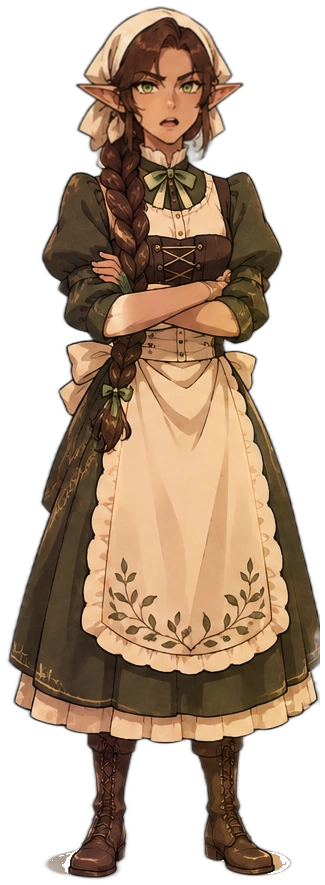
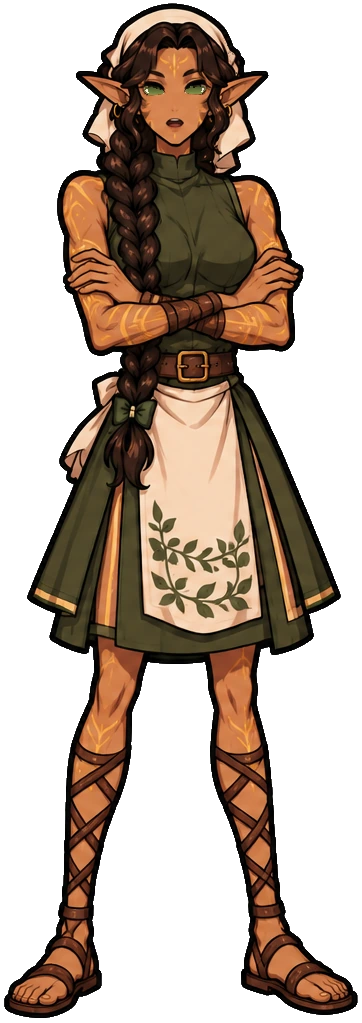
Midori no estilo novo: elfa pura, marcas douradas, olhos inteiros verdes (versao 2)
Claude-Session: https://claude.ai/code/session_01UAy89vbUTZugM6nZ8sJaNe

diff --git a/ferramentas/ficha_expressoes/verde2.py b/ferramentas/ficha_expressoes/verde2.py
@@ -1,0 +1,42 @@
+import numpy as np, cv2
+from PIL import Image
+from scipy import ndimage as nd
+CLARO=np.array([138,150,78.]); ESCURO=np.array([66,80,36.])
+OLHOS=[(70,110,130,180),(70,110,176,224)]
+def faz(f):
+    a=np.asarray(Image.open(f)).astype(np.float32)
+    for (Y0,Y1,X0,X1) in OLHOS:
+        sub=a[Y0:Y1,X0:X1,:3]; R,G,B=sub[...,0],sub[...,1],sub[...,2]
+        lum=sub@[.299,.587,.114]; sat=sub.max(2)-sub.min(2)
+        pele=(R>G+45)
+        branco=(lum>165)&(sat<90)
+        iris=(G>B+25)&(G>=R-12)&~pele
+        semente=branco|iris
+        lb,n=nd.label(semente)
+        if n==0: continue
+        ar=nd.sum(semente,lb,range(1,n+1)); keep=np.zeros(n+1,bool); keep[1:]=ar>=4
+        sem=keep[lb]
+        if sem.sum()<30: continue
+        # componente principal + vizinhos próximos
+        hull=cv2.convexHull(cv2.findNonZero(sem.astype(np.uint8))); H=np.zeros(sem.shape,np.uint8); cv2.fillConvexPoly(H,hull,1); H=H>0
+        H=nd.binary_dilation(H,iterations=1)&~pele
+        dark=lum<70
+        ys_,xs_=np.nonzero(H); cyH=(ys_.min()+ys_.max())/2
+        yy_=np.arange(H.shape[0])[:,None]*np.ones((1,H.shape[1]))
+        borda=H&~nd.binary_erosion(H,iterations=2)
+        alvo=H&~(dark&borda&(yy_<cyH))   # mantém só o contorno escuro de cima
+        alvo|=nd.binary_dilation(H,iterations=1)&branco&~pele
+        alvo|=H&dark&(G>R+5)                                 # anel escuro esverdeado da íris vira verde
+        # brilho: o maior pontinho branco puro dentro
+        br=(lum>225)&H; lbb,nb=nd.label(br)
+        if nb:
+            arb=np.array(nd.sum(br,lbb,range(1,nb+1))); ok=np.where(arb<=10)[0]
+            if len(ok): alvo&=~(lbb==(ok[np.argmax(arb[ok])]+1))
+        ys=np.nonzero(H)[0]; y0,y1=ys.min(),ys.max()+1
+        t=np.clip((np.arange(sub.shape[0])-y0)/max(1,(y1-y0)),0,1)[:,None,None]
+        cor=np.broadcast_to(ESCURO*(1-t)+CLARO*t,sub.shape)
+        m=alvo.astype(np.float32)[...,None]
+        a[Y0:Y1,X0:X1,:3]=sub*(1-m)+cor*m
+    Image.fromarray(np.clip(a,0,255).astype(np.uint8)).save(f)
+for r in range(5):
+    for c in range(2): faz(f'c_{r}_{c}.png')

diff --git a/CLAUDE.md b/CLAUDE.md
@@ -128,6 +128,6 @@ Cada ator da aba Atriz (`palco-animacao.html`) pode ter sentimentos: a personage
 - Palco: o texto é dividido em frases; `[surpresa]` ou `(surpresa)` no começo vale até o fim da frase, depois volta ao normal; `Tamaki: …` no começo da linha faz só esse ator falar (`FALA.quem`). Sem tag, o sentimento sai das palavras (se `emoAuto`). Botões de sentimento no painel Animação do ator.
 - Novel: `personagem tamaki "Tamaki" #cor ator Tamaki` liga ao ator (pisca e mexe a boca enquanto a fala aparece ou a voz toca); `tamaki [surpresa] "fala"` ou `tamaki (surpresa) "fala"` vale só nessa fala e volta ao do `mostra`. Sem ator, `[surpresa]` usa a arte `tamaki surpresa`.
 - Sentimentos prontos no repositório: `atores/indice.json` = `[{nome, pasta, nota, arquivos}]`, imagens em `atores/<ator>/` (WebP, mesma tela das poses originais, nomes `Tamaki_<sentimento>[_fala|_fala2|_pisca|_fala_pisca].webp`). Atriz › 😮 Sentimentos › 📥 Sentimentos prontos pergunta qual pronto (o do ator aberto vem marcado), troca para o ator com esse nome ou cria o ator se ele não existe, e instala. Arquivos sem sentimento no nome (`Kaoro.webp`, `Kaoro_fala.webp`…) vão para as poses normais (aba Imagens). Além disso, a Central (`atoresProntos()` no index.html) cria sozinha, ao abrir, todo ator do índice que ainda não existe no aparelho (uma vez só por nome: `central-atores-prontos`; apagou, não volta) e recarrega o Palco Animação. Atores prontos do Capítulo 1 (2026-11-20, folhas geradas no GPT pelo Tama): Tora, Goro, Reika, Yoru, Kiyoshi, Midori, Gen, Yuzu, Tetsuo, Banji, Hiyori, Shun, Kenichi, Momo, Kaname, Kaede, Haru e "Tamaki criança" (arquivos `Tamaki*.webp` em `atores/tamaki-crianca/`), só poses normais, WebP q92; o campo `tamanho` do índice vira o `size` do ator (crianças menores). Kaoro: só as 5 poses normais (fundo tirado com isnet-anime; todas usam o corpo da Parada e só a cabeça muda, alinhada pelo rosto, para não tremer na troca). Tamaki: feliz, animada, surpresa, convencida, emburrada, pensativa (feitas de 6 desenhos do Tama; olhos fechados = traço do olho fechado da feliz; bocas trocadas entre os desenhos dela).
-- Atores no estilo novo (bíblia de personagens, doc claude.ai/artifact/UmTf5SAu5teoMsUEmK7AdF): o Tama gera no GPT uma "ficha de expressões" = corpo inteiro com ROSTO LISO à esquerda e, à direita, grade 5 linhas × 3 colunas só de cabeças (linhas: normal, feliz, bravo, triste, surpreso; colunas: boca fechada, falando, olhos fechados). O Claude recorta (isnet-anime), acha escala/posição de cada cabeça no corpo (matchTemplate), alinha pelo nariz e cola só a pele do rosto (máscara do rosto liso do corpo), assim o cabelo e o corpo são sempre os mesmos. Vira poses normais + sentimentos (`_fala2` e `_fala_pisca` = cópia do `_fala`; sem `_pisca` quando a coluna 3 veio de olho aberto). Kaoro (versao 4), Haru, Kaede, Tamaki criança, Kenichi, Momo, Kaname, Shun, Hiyori, Banji, Tetsuo, Yuzu, Gen, Yoru e Kiyoshi (versao 2), Tetsuo e Yuzu (versao 3) já estão assim. Galo/galinha (versao 3): o Tama pediu o corpo SEM rosto, SEM bico e SEM barbelas, com as penas pintadas de forma orgânica (nada de oval chapado), e o Tetsuo com expressões maduras (olhos estreitos, rugas); o bico fala abrindo a parte de baixo. Montagem: `/home/claude/scripts`-style `g3x.py` (encaixa a silhueta da cabeça na do corpo, escala x/y) ou matchTemplate pelo quepe (Tetsuo .885), `b5.py CORTE FUNDO TOPO` cola a cabeça inteira entre as linhas y e alinha pelo alto, `bpisca.py`, `exporta.py`. A Yuzu brava veio com um risco vermelho (cicatriz do Tetsuo) na testa: tirado pegando só o vermelho fino (abertura com disco de raio 8 separa da crista). Yoru: r5e da Hiyori com escala .72 pela altura do rosto (rosto liso do corpo ÷ rosto da cabeça); o matchTemplate pelo cabelo dava .835, grande demais. Gen (coruja, `g3.py`/`g5.py`): as cabeças da grade vieram mais achatadas que a do corpo, então a escala é separada em x e y (.92 × 1.02), achada encaixando a silhueta da cabeça na do corpo; cola a cabeça inteira (erodida 5 px) e alinha pelas penas do alto, e a coluna 3 pelos óculos. Yuzu: mesmo caminho do Tetsuo (escala 1.0, alinhada pela crista, faixa y 72–226); o fundo_branco furou o branco dos olhos do corpo, então o alfa do resultado = máximo(corpo, cabeça colada). Tetsuo (`t3.py`/`t5.py`/`tp.py`): corpo veio com rosto desenhado; escala pelo matchTemplate de olhos+bico (.745), todas as cabeças alinhadas pelo quepe, cola a cabeça erodida 6 px entre y 96 e 192 (abaixo da aba), e o bico do corpo é apagado antes (preenchido com a cor das penas) para não sobrar bico duplo quando a cabeça tem o bico mais alto. `fundo_branco.py`: na grade só fura buracos brancos ≥ 600 px (antes furava o branco do olho). Hiyori (óculos, franja reta): corpo sem óculos, óculos só nas cabeças; alinhar pela franja (TOPO), a máscara do corpo vira contorno convexo e a faixa dos olhos entra inteira (senão a sombra da franja corta um olho). No r5e, o contorno convexo do rosto da cabeça é ERODIDO 4 px (não dilatado), senão o queixo da cabeça aparece como uma segunda linha de queixo. Cabelo branco (Kaname): limpa_borda com `peel=1, maxman=20` para não comer mechas e pontas de orelha. Scripts de referência em `ferramentas/ficha_expressoes/` (r1 fundo, r2 corta cabeças e corpo, r3 escala/posição, r4 máscara do rosto, r5b alinha pelo nariz/boca, piscar; as coordenadas mudam por personagem). Quando o isnet-anime apaga cabeças da grade, usar `fundo_branco.py` (tira o branco ligado à borda e buracos brancos fechados; no corpo qualquer buraco branco). A escala da cabeça sai melhor pela largura do rosto (rosto liso do corpo ÷ rosto da cabeça) do que pelo matchTemplate quando o cabelo é cacheado (Kaede: .78, posição pelo topo do rosto). `r5e.py` (Tamaki criança): cola só dentro do contorno convexo da pele do rosto da própria cabeça, assim o queixo da cabeça nunca aparece dentro do rosto do corpo; coluna 3 alinhada pelo nariz, e se falhar usa o ajuste da coluna 1. Kenichi (galo, `k3.py`/`k5.py`): o GPT desenhou o rosto no corpo (não veio liso), então a escala sai do matchTemplate de sobrancelhas+olhos+bico (1.28), cola o contorno convexo do rosto de penas do corpo e da cabeça, só longe da borda da cabeça (erosão de 7 px, para não trazer o contorno do pescoço), e alinha todas pela crista (o bico aberto desce e engana o alinhamento pelo bico). Piscar com os olhos fechados da própria linha (todas as colunas 3 vieram fechadas); no surpreso, pele lisa + só o traço do olho fechado, mantendo as sobrancelhas. Elfos puros (e filhos de elfo puro, como Momo e Aoi): corpo alongado (pescoço, braços, pernas e dedos compridos), orelhas muito compridas quase na horizontal, listras de tigre num tom mais escuro que a pele (testa, têmporas, embaixo dos olhos, pescoço, mãos, canelas), quase sem sobrancelha, rosto comprido e queixo fino, e o OLHO INTEIRO DE UMA COR SÓ (sem branco, sem íris/pupila; a cor varia por personagem); as cores de pele e cabelo seguem a ficha de cada um, puxando para tons claros. Referência: imagem do Tama de 2026-11-21 (corpo de ~9 cabeças, pescoço do tamanho da cabeça, braços até o meio da coxa, pernas mais da metade da altura, canelas finas e longas, mãos grandes). Família Utagawa (Midori, Reika, Raika, Momo, Aoi; o Kiyoshi não, é elfo comum): marcas TRIBAIS DOURADAS (padrão da família, pedido do Tama em 2026-11-22) no lugar das listras de tigre; roupas que mostram braços, pescoço e canelas para a anatomia aparecer. Num prompt de criança, não descrever partes do corpo (o filtro do GPT trava); falar em 'silhueta alongada de criatura de fantasia'. O GPT insiste em pôr branco nos olhos: `ferramentas/ficha_expressoes/verde.py` pinta o olho inteiro de verde (contorno convexo da íris + branco vizinho, mantém a linha de cima e um brilho). Ficha de expressões só com texto (o GPT do Tama tem limite de imagens): o prompt precisa descrever o rosto do jeito da ficha aprovada (cabelo, formato do rosto, olhos, barba), não só a bíblia. Limpeza da borda (rebarbas brancas do fundo): `ferramentas/limpa_borda.py` (tira pedacinhos soltos, manchinhas claras dentro do contorno perto da borda, halo branco e pixels claros semitransparentes). Só serve para o estilo novo (contorno preto grosso); nos atores antigos de traço fino ele come cabelo branco e penas brancas, então neles a limpeza fica para quando forem refeitos no estilo novo. Piscar: só os olhos trocam — elipses nos olhos (centros x 188 e 246, y 142 no recorte do corpo) recebem os olhos fechados da linha normal (a feliz usa os dela), em `_pisca` e `_fala_pisca` de todos os sentimentos; assim a boca e as sobrancelhas não mudam quando ele pisca.
+- Atores no estilo novo (bíblia de personagens, doc claude.ai/artifact/UmTf5SAu5teoMsUEmK7AdF): o Tama gera no GPT uma "ficha de expressões" = corpo inteiro com ROSTO LISO à esquerda e, à direita, grade 5 linhas × 3 colunas só de cabeças (linhas: normal, feliz, bravo, triste, surpreso; colunas: boca fechada, falando, olhos fechados). O Claude recorta (isnet-anime), acha escala/posição de cada cabeça no corpo (matchTemplate), alinha pelo nariz e cola só a pele do rosto (máscara do rosto liso do corpo), assim o cabelo e o corpo são sempre os mesmos. Vira poses normais + sentimentos (`_fala2` e `_fala_pisca` = cópia do `_fala`; sem `_pisca` quando a coluna 3 veio de olho aberto). Kaoro (versao 4), Haru, Kaede, Tamaki criança, Kenichi, Momo, Kaname, Shun, Hiyori, Banji, Tetsuo, Yuzu, Gen, Yoru, Kiyoshi e Midori (versao 2), Tetsuo e Yuzu (versao 3) já estão assim. Midori: `verde2.py` pinta o olho inteiro (contorno convexo do branco+íris de cada olho, mantém só a linha escura de cima e um brilho). Galo/galinha (versao 3): o Tama pediu o corpo SEM rosto, SEM bico e SEM barbelas, com as penas pintadas de forma orgânica (nada de oval chapado), e o Tetsuo com expressões maduras (olhos estreitos, rugas); o bico fala abrindo a parte de baixo. Montagem: `/home/claude/scripts`-style `g3x.py` (encaixa a silhueta da cabeça na do corpo, escala x/y) ou matchTemplate pelo quepe (Tetsuo .885), `b5.py CORTE FUNDO TOPO` cola a cabeça inteira entre as linhas y e alinha pelo alto, `bpisca.py`, `exporta.py`. A Yuzu brava veio com um risco vermelho (cicatriz do Tetsuo) na testa: tirado pegando só o vermelho fino (abertura com disco de raio 8 separa da crista). Yoru: r5e da Hiyori com escala .72 pela altura do rosto (rosto liso do corpo ÷ rosto da cabeça); o matchTemplate pelo cabelo dava .835, grande demais. Gen (coruja, `g3.py`/`g5.py`): as cabeças da grade vieram mais achatadas que a do corpo, então a escala é separada em x e y (.92 × 1.02), achada encaixando a silhueta da cabeça na do corpo; cola a cabeça inteira (erodida 5 px) e alinha pelas penas do alto, e a coluna 3 pelos óculos. Yuzu: mesmo caminho do Tetsuo (escala 1.0, alinhada pela crista, faixa y 72–226); o fundo_branco furou o branco dos olhos do corpo, então o alfa do resultado = máximo(corpo, cabeça colada). Tetsuo (`t3.py`/`t5.py`/`tp.py`): corpo veio com rosto desenhado; escala pelo matchTemplate de olhos+bico (.745), todas as cabeças alinhadas pelo quepe, cola a cabeça erodida 6 px entre y 96 e 192 (abaixo da aba), e o bico do corpo é apagado antes (preenchido com a cor das penas) para não sobrar bico duplo quando a cabeça tem o bico mais alto. `fundo_branco.py`: na grade só fura buracos brancos ≥ 600 px (antes furava o branco do olho). Hiyori (óculos, franja reta): corpo sem óculos, óculos só nas cabeças; alinhar pela franja (TOPO), a máscara do corpo vira contorno convexo e a faixa dos olhos entra inteira (senão a sombra da franja corta um olho). No r5e, o contorno convexo do rosto da cabeça é ERODIDO 4 px (não dilatado), senão o queixo da cabeça aparece como uma segunda linha de queixo. Cabelo branco (Kaname): limpa_borda com `peel=1, maxman=20` para não comer mechas e pontas de orelha. Scripts de referência em `ferramentas/ficha_expressoes/` (r1 fundo, r2 corta cabeças e corpo, r3 escala/posição, r4 máscara do rosto, r5b alinha pelo nariz/boca, piscar; as coordenadas mudam por personagem). Quando o isnet-anime apaga cabeças da grade, usar `fundo_branco.py` (tira o branco ligado à borda e buracos brancos fechados; no corpo qualquer buraco branco). A escala da cabeça sai melhor pela largura do rosto (rosto liso do corpo ÷ rosto da cabeça) do que pelo matchTemplate quando o cabelo é cacheado (Kaede: .78, posição pelo topo do rosto). `r5e.py` (Tamaki criança): cola só dentro do contorno convexo da pele do rosto da própria cabeça, assim o queixo da cabeça nunca aparece dentro do rosto do corpo; coluna 3 alinhada pelo nariz, e se falhar usa o ajuste da coluna 1. Kenichi (galo, `k3.py`/`k5.py`): o GPT desenhou o rosto no corpo (não veio liso), então a escala sai do matchTemplate de sobrancelhas+olhos+bico (1.28), cola o contorno convexo do rosto de penas do corpo e da cabeça, só longe da borda da cabeça (erosão de 7 px, para não trazer o contorno do pescoço), e alinha todas pela crista (o bico aberto desce e engana o alinhamento pelo bico). Piscar com os olhos fechados da própria linha (todas as colunas 3 vieram fechadas); no surpreso, pele lisa + só o traço do olho fechado, mantendo as sobrancelhas. Elfos puros (e filhos de elfo puro, como Momo e Aoi): corpo alongado (pescoço, braços, pernas e dedos compridos), orelhas muito compridas quase na horizontal, listras de tigre num tom mais escuro que a pele (testa, têmporas, embaixo dos olhos, pescoço, mãos, canelas), quase sem sobrancelha, rosto comprido e queixo fino, e o OLHO INTEIRO DE UMA COR SÓ (sem branco, sem íris/pupila; a cor varia por personagem); as cores de pele e cabelo seguem a ficha de cada um, puxando para tons claros. Referência: imagem do Tama de 2026-11-21 (corpo de ~9 cabeças, pescoço do tamanho da cabeça, braços até o meio da coxa, pernas mais da metade da altura, canelas finas e longas, mãos grandes). Família Utagawa (Midori, Reika, Raika, Momo, Aoi; o Kiyoshi não, é elfo comum): marcas TRIBAIS DOURADAS (padrão da família, pedido do Tama em 2026-11-22) no lugar das listras de tigre; roupas que mostram braços, pescoço e canelas para a anatomia aparecer. Num prompt de criança, não descrever partes do corpo (o filtro do GPT trava); falar em 'silhueta alongada de criatura de fantasia'. O GPT insiste em pôr branco nos olhos: `ferramentas/ficha_expressoes/verde.py` pinta o olho inteiro de verde (contorno convexo da íris + branco vizinho, mantém a linha de cima e um brilho). Ficha de expressões só com texto (o GPT do Tama tem limite de imagens): o prompt precisa descrever o rosto do jeito da ficha aprovada (cabelo, formato do rosto, olhos, barba), não só a bíblia. Limpeza da borda (rebarbas brancas do fundo): `ferramentas/limpa_borda.py` (tira pedacinhos soltos, manchinhas claras dentro do contorno perto da borda, halo branco e pixels claros semitransparentes). Só serve para o estilo novo (contorno preto grosso); nos atores antigos de traço fino ele come cabelo branco e penas brancas, então neles a limpeza fica para quando forem refeitos no estilo novo. Piscar: só os olhos trocam — elipses nos olhos (centros x 188 e 246, y 142 no recorte do corpo) recebem os olhos fechados da linha normal (a feliz usa os dela), em `_pisca` e `_fala_pisca` de todos os sentimentos; assim a boca e as sobrancelhas não mudam quando ele pisca.
 - Atualizar um ator que já existe no aparelho: suba `versao` no item do índice. `atoresProntos()` guarda as versões em `central-atores-versao`; versão maior apaga as poses normais e as dos sentimentos do pacote e grava as novas no mesmo ator (mantém sentimentos que ele já tinha). `palavras` no item do índice = palavras de cada sentimento; `tamanho` só entra se o ator ainda não tem size.
 - Novel › 🎭 Atores (no menu e na barra do Roteiro): lista cada `personagem` com a foto, se está ligado (✅ / ⚠ ator não existe / sem ator), os sentimentos prontos e os que o roteiro pede sem pose (!). A lista de atores reescreve a linha `personagem … ator X`; os atores soltos têm ＋ Criar personagem.
